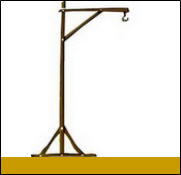
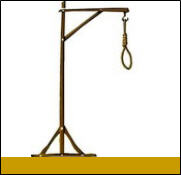
Changement numéro des images pour évolution du Pendu et script fin.

diff --git a/script.js b/script.js
@@ -1,7 +1,8 @@
     // Initialisation des variables :
 
-let userLetter, hangman, wordButton, letterButton, alertMessage, userWord, secretWord, wordToFind, shortcutButton, userWordForm, secretWordInArray;
+let userLetter, hangman, wordButton, letterButton, alertMessage, userWord, secretWord, wordToFind, shortcutButton, userWordForm, wordToFindInArray;
 let last   = 0;
+let score  = 0;
 let hidden = true;
 
 
@@ -33,11 +34,11 @@ alertMessage   = document.querySelector('#alertMessage');
 
     // Création de l'interface pour le début de partie :
 
-hangman.innerHTML = '<img src="img/hangman1.jpg" alt="Pendu début de partie">';
+hangman.innerHTML = `<img src="img/hangman${score}.jpg" alt="Pendu début de partie">`;
 alertMessage.style.color   = 'red';
 alertMessage.style.display = 'none';
 userWordForm.style.display = 'none';
-secretWord.textContent = '_ _ _ _';
+secretWord.textContent = '_ _ _ _ _ _';
 
 
 
@@ -93,22 +94,26 @@ function newGame() {
 
     randomWord();
 
-    secretWord = wordToFind;
+    // secretWord = wordToFind;
 
-    secretWordInArray = secretWord.split('');
+    // secretWord.textContent = wordToFind;
 
-    console.log(secretWordInArray);
+    wordToFindInArray = wordToFind.split('');
+
+    console.log(wordToFindInArray);
 
     letterButton.addEventListener('click', () => {
 
-    if (secretWordInArray.includes(userLetter)) {
-            alert('Une de bonne !');
+        if (wordToFindInArray.includes(userLetter.value)) {
+            alert('Yes')
         } else {
-            alert('Eh non !')
+            hangman.innerHTML = `<img src="img/hangman${score++}.jpg" alt="Pendu début de partie">`;
+            if (score == 7) {
+                alert('Perdu !')
+            }
         }
-    })
-};
-
+    });
+}
 
 
     // Appel de la fonction de début de partie :
